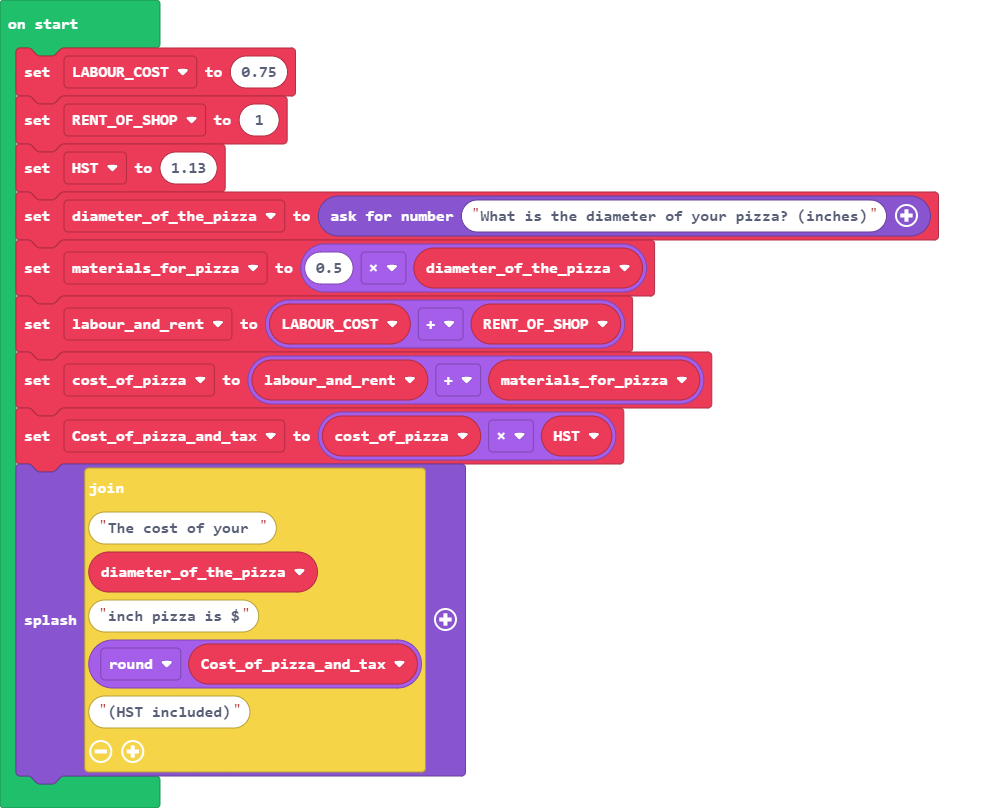
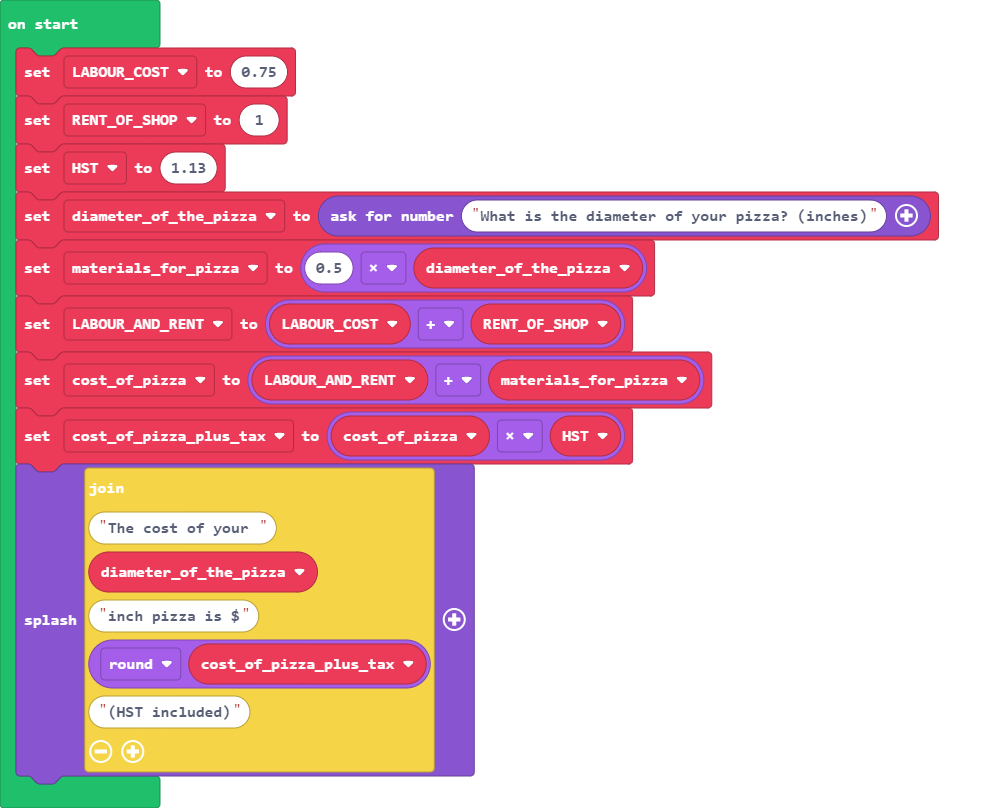
Changes in variable names

Changed region(s): [[0.3333, 0.495, 0.6364, 0.9592], [0.1818, 0.4641, 0.4242, 0.5879], [0.0909, 0.3713, 0.2121, 0.4022]]

diff --git a/main.ts b/main.ts
@@ -3,7 +3,7 @@ let RENT_OF_SHOP = 1
 let HST = 1.13
 let diameter_of_the_pizza = game.askForNumber("What is the diameter of your pizza? (inches)")
 let materials_for_pizza = 0.5 * diameter_of_the_pizza
-let labour_and_rent = LABOUR_COST + RENT_OF_SHOP
-let cost_of_pizza = labour_and_rent + materials_for_pizza
-let Cost_of_pizza_and_tax = cost_of_pizza * HST
-game.splash("The cost of your " + diameter_of_the_pizza + "inch pizza is $" + Math.round(Cost_of_pizza_and_tax) + "(HST included)")
+let LABOUR_AND_RENT = LABOUR_COST + RENT_OF_SHOP
+let cost_of_pizza = LABOUR_AND_RENT + materials_for_pizza
+let cost_of_pizza_plus_tax = cost_of_pizza * HST
+game.splash("The cost of your " + diameter_of_the_pizza + "inch pizza is $" + Math.round(cost_of_pizza_plus_tax) + "(HST included)")
